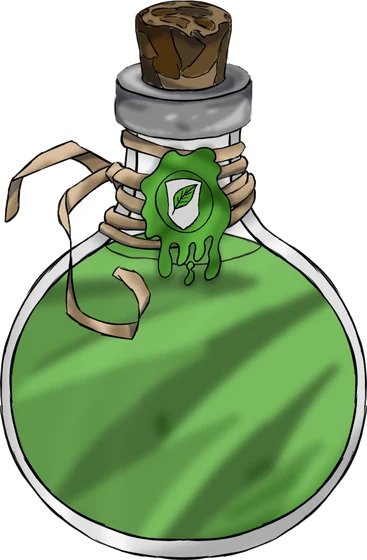
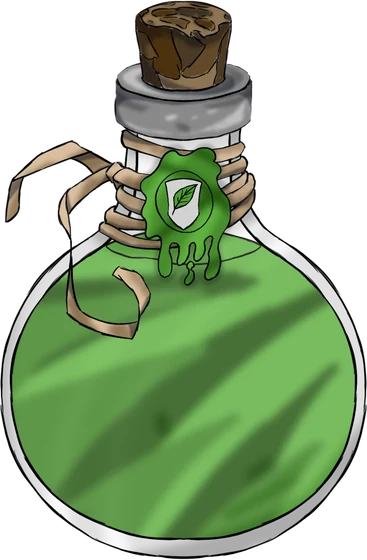
Potions : les fioles repassent au propre et le philtre d'amour prend sa place
Les 30 dessins de flacons sont remplacés par les versions au propre
(même recadrage pour toutes, sinon les fioles se décalent sur leur planche).
Le philtre d'amour, qui n'avait qu'une image et aucune entrée, rejoint
l'étagère « Ruse & exploration » avec ses quatre paliers de D20.

diff --git a/equipement/potions-data.js b/equipement/potions-data.js
@@ -317,6 +317,17 @@ window.EQUIP_POTIONS = {
       ],
       prix: [700, 1785, 2800]
     },
+    {
+      slug: "philtre-amour", nom: "Philtre d'amour", categorie: "Ruse & exploration",
+      glow: "#a172b8", img: "philtre-amour.webp",
+      tiers: [
+        { nom: "Faible", roll: "1 à 8", effet: "25 % de chance d'appliquer l'effet amoureux à la cible." },
+        { nom: "Moyen", roll: "9 à 16", effet: "50 % de chance d'appliquer l'effet amoureux à la cible." },
+        { nom: "Fort", roll: "17 à 19", effet: "75 % de chance d'appliquer l'effet amoureux à la cible." },
+        { nom: "Totale", roll: "20", effet: "100 % de chance d'appliquer l'effet amoureux à la cible." }
+      ],
+      prix: [750, 1913, 3000]
+    },
 
     /* ---------- Spéciales ---------- */
     {
